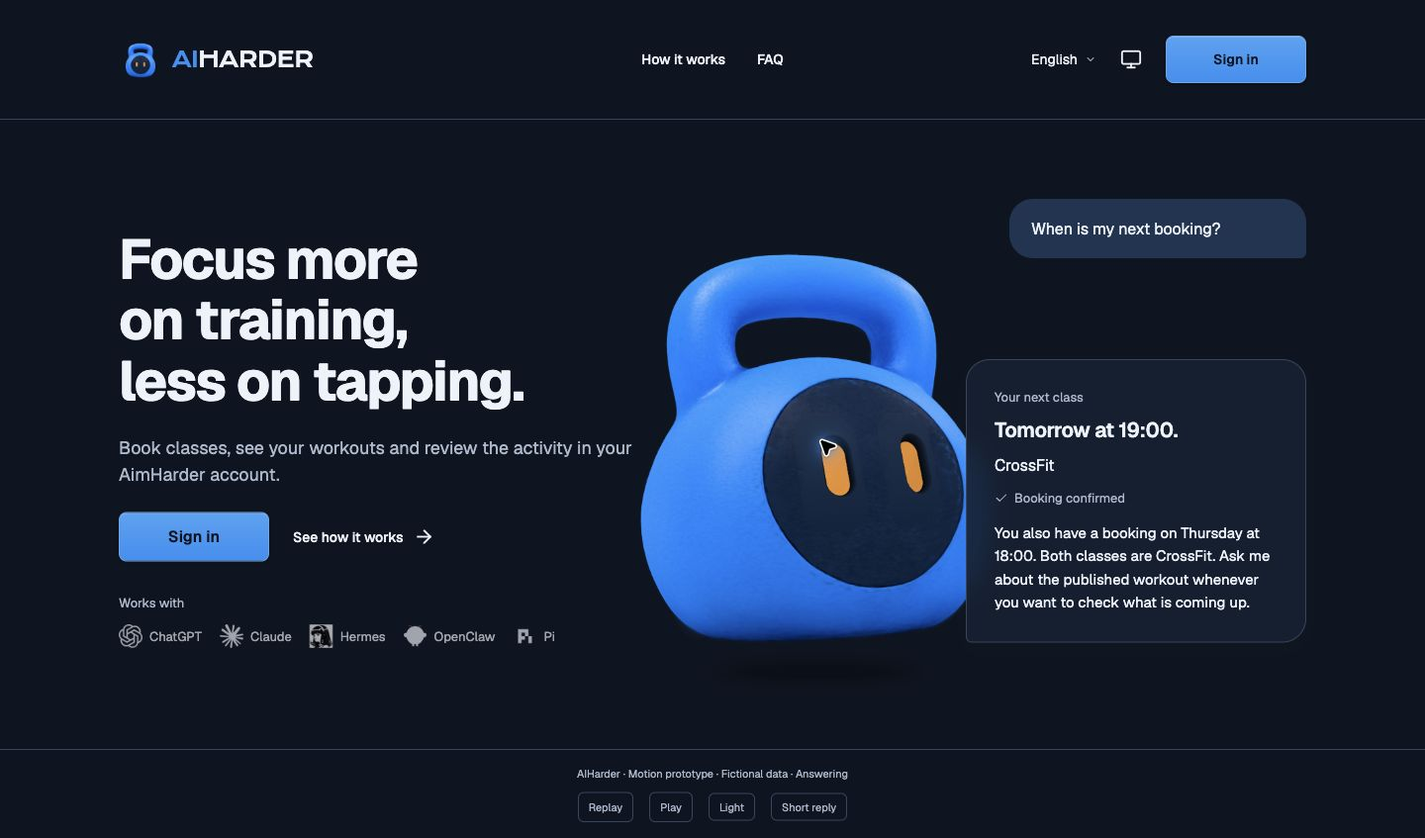
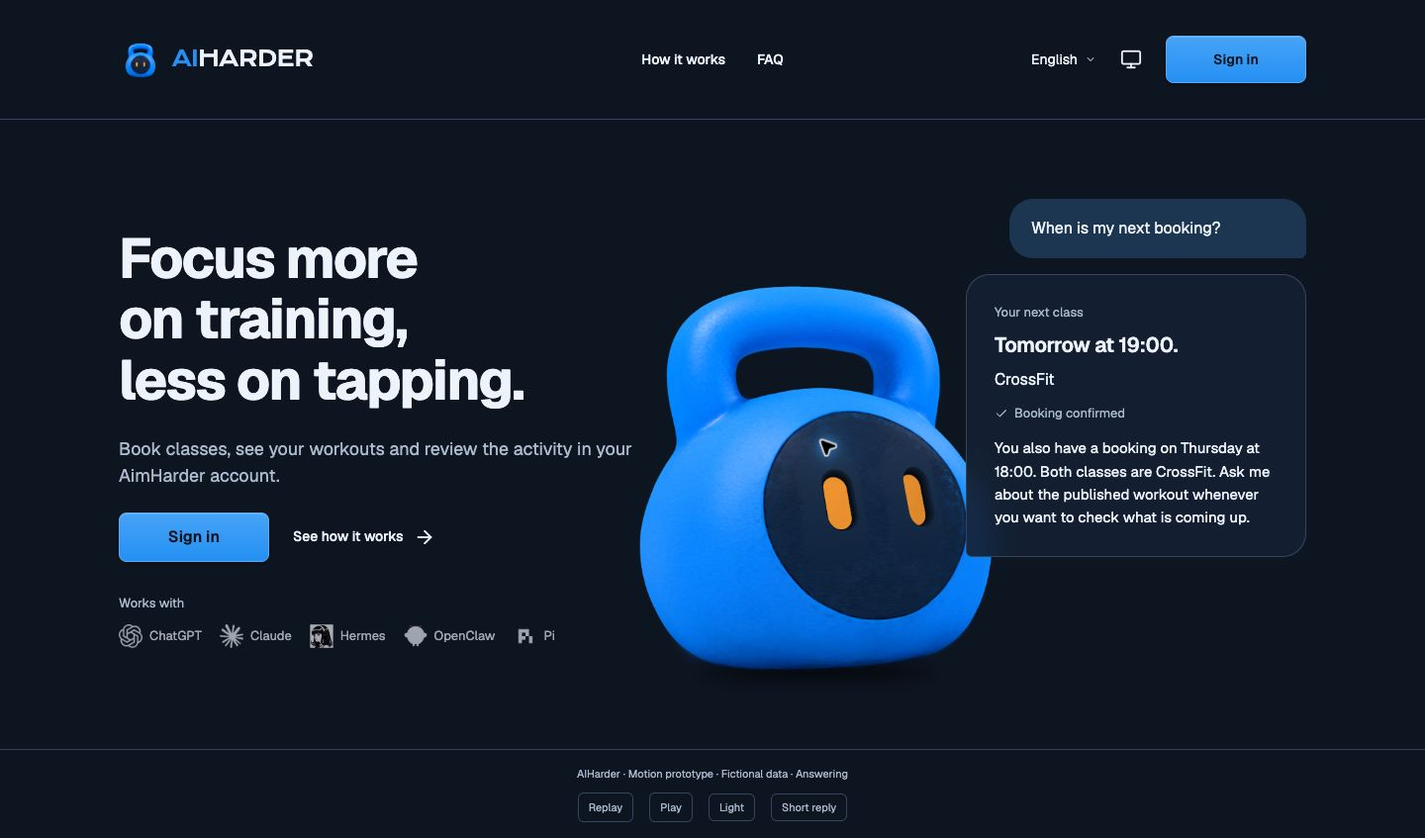
design: speed up kettle reactions and type hero replies

diff --git a/design/home-study/hero-motion-prototype.html b/design/home-study/hero-motion-prototype.html
@@ -2,8 +2,8 @@
 <!-- Throwaway #95 motion prototype: one owner-directed hero, no live chat or account access. -->
 <html lang="en"><head><meta charset="utf-8"><meta name="viewport" content="width=device-width,initial-scale=1"><title>AIHarder — Kettle motion prototype</title><script>const p=new URLSearchParams(location.search);document.documentElement.dataset.theme=p.get('theme')==='dark'?'dark':'light';document.documentElement.dataset.state=['waiting','question','thinking','answer'].includes(p.get('state'))?p.get('state'):'answer';</script><style>
 @font-face{font-family:Geist;src:url('./assets/fonts/Geist.ttf');font-weight:100 900;font-display:swap}@font-face{font-family:Krona;src:url('./assets/fonts/KronaOne-Regular.ttf');font-weight:400;font-display:swap}
-:root{--bg:#fff;--surface:#f4f7fa;--ink:#14283f;--muted:#516174;--line:#cfd8e3;--bubble:#e9f3fe;--blue:#2490f4;--cta:#1765b0;--cta-top:#2174b9;--on-cta:#fff;--edge:#12528f;--shadow:#14283f29;--reply:#f4f7fae6;--ground:#14283f32;--contact:#14283f40;color-scheme:light}:root[data-theme=dark]{--bg:#0d1521;--surface:#142033;--ink:#edf3fa;--muted:#abbacd;--line:#34465e;--bubble:#1c3551;--cta:#2490f4;--cta-top:#47a3f6;--on-cta:#0d1521;--edge:#61a9eb;--shadow:#0000003d;--reply:#142033e6;--ground:#00000080;--contact:#00000099;color-scheme:dark}*{box-sizing:border-box}body{margin:0;background:var(--bg);color:var(--ink);font:16px/1.5 Geist,Arial,sans-serif}a{color:inherit;text-decoration:none}h1,p{margin:0}.container{width:calc(100% - 80px);max-width:1200px;margin:auto}.icon{width:22px;height:22px;display:inline-block;flex:none;background:currentColor;mask:var(--icon) center/contain no-repeat}.site-header{border-bottom:1px solid var(--line)}.header-inner{min-height:120px;display:grid;grid-template-columns:1fr 1fr 1fr;align-items:center}.brand{display:flex;gap:10px;align-items:center;font:400 21.875px/1 Krona,sans-serif;letter-spacing:-.546875px;white-space:nowrap}.brand img{width:43.75px;height:50px;object-fit:contain}.brand b{color:var(--blue);font-weight:400}.nav{display:flex;align-items:center;justify-content:center;gap:32px;font-size:14px;font-weight:500}.utilities{display:flex;align-items:center;justify-content:flex-end;gap:24px;font-size:14px}.language{display:flex;gap:7px;align-items:center}.language .icon{width:12px;height:12px}.primary{display:inline-flex;align-items:center;justify-content:center;min-height:48px;padding:12px 28px;border-radius:8px;border:1px solid var(--edge);font-weight:600;background:linear-gradient(var(--cta-top),var(--cta));color:var(--on-cta);box-shadow:inset 0 1px #ffffff30,0 2px 4px var(--shadow)}.header-signin{min-width:142px}.hero{padding:72px 0 64px;display:grid;grid-template-columns:532px minmax(0,1fr);gap:72px;align-items:center}.pitch{display:flex;flex-direction:column;gap:24px;position:relative;z-index:2}h1{font-size:56px;line-height:1.1;letter-spacing:-1.5px;font-weight:700}.intro{font-size:18px;line-height:1.5;color:var(--muted);max-width:532px}.actions{display:flex;gap:24px;align-items:center}.actions .primary{min-width:152px}.text-link{display:inline-flex;align-items:center;gap:10px;font-size:14px;font-weight:500}.works{padding-top:8px}.works-label{font-size:13px;color:var(--muted);margin-bottom:12px}.apps{display:flex;gap:18px;align-items:center;opacity:.65}.app{display:flex;align-items:center;gap:7px;font-size:13px;white-space:nowrap}.app img{width:24px;height:24px;object-fit:contain}.scene{position:relative;height:500px;min-width:0}.kettle{position:absolute;left:-80px;top:96px;width:360px;height:390px;z-index:1;overflow:hidden}.kettle img{position:absolute;width:493.14px;height:493.14px;max-width:none;left:-77.06px;top:-65.5px}.ground{position:absolute;left:-16px;top:476px;width:236px;height:20px;border-radius:50%;background:var(--ground);filter:blur(8px);z-index:0;transform-origin:center}.ground::after{content:"";position:absolute;left:28px;top:5px;width:180px;height:7px;border-radius:50%;background:var(--contact);filter:blur(2px)}.bubble{position:absolute;font-size:16px;line-height:1.5;z-index:3}.question{right:0;top:8px;width:300px;background:var(--bubble);border-radius:24px 24px 6px 24px;padding:18px 22px}.answer{right:0;top:170px;width:344px;background:var(--reply);backdrop-filter:blur(12px);-webkit-backdrop-filter:blur(12px);border:1px solid var(--line);border-radius:24px 24px 24px 6px;padding:28px;box-shadow:0 6px 24px #14283f09}.answer .eyebrow{font-size:13px;color:var(--muted);margin-bottom:10px}.answer strong{display:block;font-size:21px;line-height:1.25;font-weight:600;letter-spacing:-.35px}.answer .class-name{margin-top:10px;font-size:16px}.answer .confirmed{display:flex;gap:6px;align-items:center;color:var(--muted);font-size:13px;margin-top:12px}.answer .confirmed .icon{width:14px;height:14px}.thinking{right:128px;top:222px;width:90px;height:60px;border:1px solid var(--line);border-radius:22px;background:var(--surface);align-items:center;justify-content:center;gap:7px;display:none}.thinking span{display:block;width:7px;height:7px;background:var(--muted);border-radius:50%}.thinking span:nth-child(2){opacity:.7}.thinking span:nth-child(3){opacity:.4}[data-state=waiting] .question,[data-state=waiting] .answer,[data-state=question] .answer,[data-state=thinking] .answer{display:none}[data-state=thinking] .thinking{display:flex}.sr-only{position:absolute;width:1px;height:1px;overflow:hidden;clip-path:inset(50%)}.review-note{font-size:11px;color:var(--muted);padding:16px;text-align:center;border-top:1px solid var(--line)}
+:root{--bg:#fff;--surface:#f4f7fa;--ink:#14283f;--muted:#516174;--line:#cfd8e3;--bubble:#e9f3fe;--blue:#2490f4;--cta:#1765b0;--cta-top:#2174b9;--on-cta:#fff;--edge:#12528f;--shadow:#14283f29;--reply:#f4f7fae6;--ground:#14283f32;--contact:#14283f40;color-scheme:light}:root[data-theme=dark]{--bg:#0d1521;--surface:#142033;--ink:#edf3fa;--muted:#abbacd;--line:#34465e;--bubble:#1c3551;--cta:#2490f4;--cta-top:#47a3f6;--on-cta:#0d1521;--edge:#61a9eb;--shadow:#0000003d;--reply:#142033e6;--ground:#00000080;--contact:#00000099;color-scheme:dark}*{box-sizing:border-box}body{margin:0;background:var(--bg);color:var(--ink);font:16px/1.5 Geist,Arial,sans-serif}a{color:inherit;text-decoration:none}h1,p{margin:0}.container{width:calc(100% - 80px);max-width:1200px;margin:auto}.icon{width:22px;height:22px;display:inline-block;flex:none;background:currentColor;mask:var(--icon) center/contain no-repeat}.site-header{border-bottom:1px solid var(--line)}.header-inner{min-height:120px;display:grid;grid-template-columns:1fr 1fr 1fr;align-items:center}.brand{display:flex;gap:10px;align-items:center;font:400 21.875px/1 Krona,sans-serif;letter-spacing:-.546875px;white-space:nowrap}.brand img{width:43.75px;height:50px;object-fit:contain}.brand b{color:var(--blue);font-weight:400}.nav{display:flex;align-items:center;justify-content:center;gap:32px;font-size:14px;font-weight:500}.utilities{display:flex;align-items:center;justify-content:flex-end;gap:24px;font-size:14px}.language{display:flex;gap:7px;align-items:center}.language .icon{width:12px;height:12px}.primary{display:inline-flex;align-items:center;justify-content:center;min-height:48px;padding:12px 28px;border-radius:8px;border:1px solid var(--edge);font-weight:600;background:linear-gradient(var(--cta-top),var(--cta));color:var(--on-cta);box-shadow:inset 0 1px #ffffff30,0 2px 4px var(--shadow)}.header-signin{min-width:142px}.hero{padding:72px 0 64px;display:grid;grid-template-columns:532px minmax(0,1fr);gap:72px;align-items:center}.pitch{display:flex;flex-direction:column;gap:24px;position:relative;z-index:2}h1{font-size:56px;line-height:1.1;letter-spacing:-1.5px;font-weight:700}.intro{font-size:18px;line-height:1.5;color:var(--muted);max-width:532px}.actions{display:flex;gap:24px;align-items:center}.actions .primary{min-width:152px}.text-link{display:inline-flex;align-items:center;gap:10px;font-size:14px;font-weight:500}.works{padding-top:8px}.works-label{font-size:13px;color:var(--muted);margin-bottom:12px}.apps{display:flex;gap:18px;align-items:center;opacity:.65}.app{display:flex;align-items:center;gap:7px;font-size:13px;white-space:nowrap}.app img{width:24px;height:24px;object-fit:contain}.scene{position:relative;height:500px;min-width:0}.kettle{position:absolute;left:-80px;top:96px;width:360px;height:390px;z-index:1;overflow:hidden}.kettle img{position:absolute;width:493.14px;height:493.14px;max-width:none;left:-77.06px;top:-65.5px}.ground{position:absolute;left:-16px;top:476px;width:236px;height:20px;border-radius:50%;background:var(--ground);filter:blur(8px);z-index:0;transform-origin:center}.ground::after{content:"";position:absolute;left:28px;top:5px;width:180px;height:7px;border-radius:50%;background:var(--contact);filter:blur(2px)}.bubble{position:absolute;font-size:16px;line-height:1.5;z-index:3}.question{right:0;top:8px;width:300px;background:var(--bubble);border-radius:24px 24px 6px 24px;padding:18px 22px}.answer{right:0;top:var(--reply-top,84px);width:344px;background:var(--reply);backdrop-filter:blur(12px);-webkit-backdrop-filter:blur(12px);border:1px solid var(--line);border-radius:24px 24px 24px 6px;padding:28px;box-shadow:0 6px 24px #14283f09}.answer .eyebrow{font-size:13px;color:var(--muted);margin-bottom:10px}.answer strong{display:block;font-size:21px;line-height:1.25;font-weight:600;letter-spacing:-.35px}.answer .class-name{margin-top:10px;font-size:16px}.answer .confirmed{display:flex;gap:6px;align-items:center;color:var(--muted);font-size:13px;margin-top:12px}.answer .confirmed .icon{width:14px;height:14px}.thinking{right:0;top:var(--reply-top,84px);width:90px;height:60px;border:1px solid var(--line);border-radius:22px;background:var(--surface);align-items:center;justify-content:center;gap:7px;display:none}.thinking span{display:block;width:7px;height:7px;background:var(--muted);border-radius:50%}.thinking span:nth-child(2){opacity:.7}.thinking span:nth-child(3){opacity:.4}[data-state=waiting] .question,[data-state=waiting] .answer,[data-state=question] .answer,[data-state=thinking] .answer{display:none}[data-state=thinking] .thinking{display:flex}.sr-only{position:absolute;width:1px;height:1px;overflow:hidden;clip-path:inset(50%)}.review-note{font-size:11px;color:var(--muted);padding:16px;text-align:center;border-top:1px solid var(--line)}
 @media(max-width:1320px){.kettle{left:-60px;top:126px;width:300px;height:344px}.kettle img{width:435.13px;height:435.13px;left:-68px;top:-57.79px}.answer{width:300px}.ground{left:-8px;top:460px;width:210px}.ground::after{width:154px}}
 @media(max-width:1150px){.hero{grid-template-columns:46% 1fr;gap:40px}h1{font-size:50px}.brand{font-size:20px}.utilities{gap:16px}.nav{gap:24px}.question{width:270px}.answer{width:300px}.kettle{left:-70px}.apps{gap:12px}.app{font-size:12px;gap:5px}}
 @media(max-width:850px){.container{width:calc(100% - 40px)}.header-inner{grid-template-columns:1fr auto;min-height:100px}.nav{display:none}.utilities{gap:16px}.language{display:none}.hero{display:block;padding-top:48px}.pitch{max-width:532px}.scene{height:520px;margin:32px auto 0;max-width:596px}.kettle{left:0}.question{right:0}.answer{right:0}.apps{flex-wrap:wrap}h1{font-size:44px}.header-signin{min-width:100px;padding:12px 18px}.brand{font-size:17px}.brand img{width:35px;height:40px}}
[2 lines of base64/hex data omitted]

diff --git a/design/home-study/hero-graphic-still.html b/design/home-study/hero-graphic-still.html
@@ -2,7 +2,7 @@
 <!-- Static composition study for #95. No animation, real chat, account access or production behavior. -->
 <html lang="en"><head><meta charset="utf-8"><meta name="viewport" content="width=device-width,initial-scale=1"><title>AIHarder — Kettle hero composition</title><script>const p=new URLSearchParams(location.search);document.documentElement.dataset.theme=p.get('theme')==='dark'?'dark':'light';document.documentElement.dataset.state=['waiting','question','thinking','answer'].includes(p.get('state'))?p.get('state'):'answer';</script><style>
 @font-face{font-family:Geist;src:url('./assets/fonts/Geist.ttf');font-weight:100 900;font-display:swap}@font-face{font-family:Krona;src:url('./assets/fonts/KronaOne-Regular.ttf');font-weight:400;font-display:swap}
-:root{--bg:#fff;--surface:#f4f7fa;--ink:#14283f;--muted:#516174;--line:#cfd8e3;--bubble:#e9f3fe;--blue:#2490f4;--cta:#1765b0;--cta-top:#2174b9;--on-cta:#fff;--edge:#12528f;--shadow:#14283f29;--reply:#f4f7fae6;--ground:#14283f32;--contact:#14283f40;color-scheme:light}:root[data-theme=dark]{--bg:#0d1521;--surface:#142033;--ink:#edf3fa;--muted:#abbacd;--line:#34465e;--bubble:#1c3551;--cta:#2490f4;--cta-top:#47a3f6;--on-cta:#0d1521;--edge:#61a9eb;--shadow:#0000003d;--reply:#142033e6;--ground:#00000080;--contact:#00000099;color-scheme:dark}*{box-sizing:border-box}body{margin:0;background:var(--bg);color:var(--ink);font:16px/1.5 Geist,Arial,sans-serif}a{color:inherit;text-decoration:none}h1,p{margin:0}.container{width:calc(100% - 80px);max-width:1200px;margin:auto}.icon{width:22px;height:22px;display:inline-block;flex:none;background:currentColor;mask:var(--icon) center/contain no-repeat}.site-header{border-bottom:1px solid var(--line)}.header-inner{min-height:120px;display:grid;grid-template-columns:1fr 1fr 1fr;align-items:center}.brand{display:flex;gap:10px;align-items:center;font:400 21.875px/1 Krona,sans-serif;letter-spacing:-.546875px;white-space:nowrap}.brand img{width:43.75px;height:50px;object-fit:contain}.brand b{color:var(--blue);font-weight:400}.nav{display:flex;align-items:center;justify-content:center;gap:32px;font-size:14px;font-weight:500}.utilities{display:flex;align-items:center;justify-content:flex-end;gap:24px;font-size:14px}.language{display:flex;gap:7px;align-items:center}.language .icon{width:12px;height:12px}.primary{display:inline-flex;align-items:center;justify-content:center;min-height:48px;padding:12px 28px;border-radius:8px;border:1px solid var(--edge);font-weight:600;background:linear-gradient(var(--cta-top),var(--cta));color:var(--on-cta);box-shadow:inset 0 1px #ffffff30,0 2px 4px var(--shadow)}.header-signin{min-width:142px}.hero{padding:72px 0 64px;display:grid;grid-template-columns:532px minmax(0,1fr);gap:72px;align-items:center}.pitch{display:flex;flex-direction:column;gap:24px;position:relative;z-index:2}h1{font-size:56px;line-height:1.1;letter-spacing:-1.5px;font-weight:700}.intro{font-size:18px;line-height:1.5;color:var(--muted);max-width:532px}.actions{display:flex;gap:24px;align-items:center}.actions .primary{min-width:152px}.text-link{display:inline-flex;align-items:center;gap:10px;font-size:14px;font-weight:500}.works{padding-top:8px}.works-label{font-size:13px;color:var(--muted);margin-bottom:12px}.apps{display:flex;gap:18px;align-items:center;opacity:.65}.app{display:flex;align-items:center;gap:7px;font-size:13px;white-space:nowrap}.app img{width:24px;height:24px;object-fit:contain}.scene{position:relative;height:500px;min-width:0}.kettle{position:absolute;left:-80px;top:96px;width:360px;height:390px;z-index:1;overflow:hidden}.kettle img{position:absolute;width:493.14px;height:493.14px;max-width:none;left:-77.06px;top:-65.5px}.ground{position:absolute;left:-16px;top:476px;width:236px;height:20px;border-radius:50%;background:var(--ground);filter:blur(8px);z-index:0;transform-origin:center}.ground::after{content:"";position:absolute;left:28px;top:5px;width:180px;height:7px;border-radius:50%;background:var(--contact);filter:blur(2px)}.bubble{position:absolute;font-size:16px;line-height:1.5;z-index:3}.question{right:0;top:8px;width:300px;background:var(--bubble);border-radius:24px 24px 6px 24px;padding:18px 22px}.answer{right:0;top:170px;width:344px;background:var(--reply);backdrop-filter:blur(12px);-webkit-backdrop-filter:blur(12px);border:1px solid var(--line);border-radius:24px 24px 24px 6px;padding:28px;box-shadow:0 6px 24px #14283f09}.answer .eyebrow{font-size:13px;color:var(--muted);margin-bottom:10px}.answer strong{display:block;font-size:21px;line-height:1.25;font-weight:600;letter-spacing:-.35px}.answer .class-name{margin-top:10px;font-size:16px}.answer .confirmed{display:flex;gap:6px;align-items:center;color:var(--muted);font-size:13px;margin-top:12px}.answer .confirmed .icon{width:14px;height:14px}.thinking{right:128px;top:222px;width:90px;height:60px;border:1px solid var(--line);border-radius:22px;background:var(--surface);align-items:center;justify-content:center;gap:7px;display:none}.thinking span{display:block;width:7px;height:7px;background:var(--muted);border-radius:50%}.thinking span:nth-child(2){opacity:.7}.thinking span:nth-child(3){opacity:.4}[data-state=waiting] .question,[data-state=waiting] .answer,[data-state=question] .answer,[data-state=thinking] .answer{display:none}[data-state=thinking] .thinking{display:flex}.sr-only{position:absolute;width:1px;height:1px;overflow:hidden;clip-path:inset(50%)}.review-note{font-size:11px;color:var(--muted);padding:16px;text-align:center;border-top:1px solid var(--line)}
+:root{--bg:#fff;--surface:#f4f7fa;--ink:#14283f;--muted:#516174;--line:#cfd8e3;--bubble:#e9f3fe;--blue:#2490f4;--cta:#1765b0;--cta-top:#2174b9;--on-cta:#fff;--edge:#12528f;--shadow:#14283f29;--reply:#f4f7fae6;--ground:#14283f32;--contact:#14283f40;color-scheme:light}:root[data-theme=dark]{--bg:#0d1521;--surface:#142033;--ink:#edf3fa;--muted:#abbacd;--line:#34465e;--bubble:#1c3551;--cta:#2490f4;--cta-top:#47a3f6;--on-cta:#0d1521;--edge:#61a9eb;--shadow:#0000003d;--reply:#142033e6;--ground:#00000080;--contact:#00000099;color-scheme:dark}*{box-sizing:border-box}body{margin:0;background:var(--bg);color:var(--ink);font:16px/1.5 Geist,Arial,sans-serif}a{color:inherit;text-decoration:none}h1,p{margin:0}.container{width:calc(100% - 80px);max-width:1200px;margin:auto}.icon{width:22px;height:22px;display:inline-block;flex:none;background:currentColor;mask:var(--icon) center/contain no-repeat}.site-header{border-bottom:1px solid var(--line)}.header-inner{min-height:120px;display:grid;grid-template-columns:1fr 1fr 1fr;align-items:center}.brand{display:flex;gap:10px;align-items:center;font:400 21.875px/1 Krona,sans-serif;letter-spacing:-.546875px;white-space:nowrap}.brand img{width:43.75px;height:50px;object-fit:contain}.brand b{color:var(--blue);font-weight:400}.nav{display:flex;align-items:center;justify-content:center;gap:32px;font-size:14px;font-weight:500}.utilities{display:flex;align-items:center;justify-content:flex-end;gap:24px;font-size:14px}.language{display:flex;gap:7px;align-items:center}.language .icon{width:12px;height:12px}.primary{display:inline-flex;align-items:center;justify-content:center;min-height:48px;padding:12px 28px;border-radius:8px;border:1px solid var(--edge);font-weight:600;background:linear-gradient(var(--cta-top),var(--cta));color:var(--on-cta);box-shadow:inset 0 1px #ffffff30,0 2px 4px var(--shadow)}.header-signin{min-width:142px}.hero{padding:72px 0 64px;display:grid;grid-template-columns:532px minmax(0,1fr);gap:72px;align-items:center}.pitch{display:flex;flex-direction:column;gap:24px;position:relative;z-index:2}h1{font-size:56px;line-height:1.1;letter-spacing:-1.5px;font-weight:700}.intro{font-size:18px;line-height:1.5;color:var(--muted);max-width:532px}.actions{display:flex;gap:24px;align-items:center}.actions .primary{min-width:152px}.text-link{display:inline-flex;align-items:center;gap:10px;font-size:14px;font-weight:500}.works{padding-top:8px}.works-label{font-size:13px;color:var(--muted);margin-bottom:12px}.apps{display:flex;gap:18px;align-items:center;opacity:.65}.app{display:flex;align-items:center;gap:7px;font-size:13px;white-space:nowrap}.app img{width:24px;height:24px;object-fit:contain}.scene{position:relative;height:500px;min-width:0}.kettle{position:absolute;left:-80px;top:96px;width:360px;height:390px;z-index:1;overflow:hidden}.kettle img{position:absolute;width:493.14px;height:493.14px;max-width:none;left:-77.06px;top:-65.5px}.ground{position:absolute;left:-16px;top:476px;width:236px;height:20px;border-radius:50%;background:var(--ground);filter:blur(8px);z-index:0;transform-origin:center}.ground::after{content:"";position:absolute;left:28px;top:5px;width:180px;height:7px;border-radius:50%;background:var(--contact);filter:blur(2px)}.bubble{position:absolute;font-size:16px;line-height:1.5;z-index:3}.question{right:0;top:8px;width:300px;background:var(--bubble);border-radius:24px 24px 6px 24px;padding:18px 22px}.answer{right:0;top:var(--reply-top,84px);width:344px;background:var(--reply);backdrop-filter:blur(12px);-webkit-backdrop-filter:blur(12px);border:1px solid var(--line);border-radius:24px 24px 24px 6px;padding:28px;box-shadow:0 6px 24px #14283f09}.answer .eyebrow{font-size:13px;color:var(--muted);margin-bottom:10px}.answer strong{display:block;font-size:21px;line-height:1.25;font-weight:600;letter-spacing:-.35px}.answer .class-name{margin-top:10px;font-size:16px}.answer .confirmed{display:flex;gap:6px;align-items:center;color:var(--muted);font-size:13px;margin-top:12px}.answer .confirmed .icon{width:14px;height:14px}.thinking{right:0;top:var(--reply-top,84px);width:90px;height:60px;border:1px solid var(--line);border-radius:22px;background:var(--surface);align-items:center;justify-content:center;gap:7px;display:none}.thinking span{display:block;width:7px;height:7px;background:var(--muted);border-radius:50%}.thinking span:nth-child(2){opacity:.7}.thinking span:nth-child(3){opacity:.4}[data-state=waiting] .question,[data-state=waiting] .answer,[data-state=question] .answer,[data-state=thinking] .answer{display:none}[data-state=thinking] .thinking{display:flex}.sr-only{position:absolute;width:1px;height:1px;overflow:hidden;clip-path:inset(50%)}.review-note{font-size:11px;color:var(--muted);padding:16px;text-align:center;border-top:1px solid var(--line)}
 @media(max-width:1320px){.kettle{left:-60px;top:126px;width:300px;height:344px}.kettle img{width:435.13px;height:435.13px;left:-68px;top:-57.79px}.answer{width:300px}.ground{left:-8px;top:460px;width:210px}.ground::after{width:154px}}
 @media(max-width:1150px){.hero{grid-template-columns:46% 1fr;gap:40px}h1{font-size:50px}.brand{font-size:20px}.utilities{gap:16px}.nav{gap:24px}.question{width:270px}.answer{width:300px}.kettle{left:-70px}.apps{gap:12px}.app{font-size:12px;gap:5px}}
 @media(max-width:850px){.container{width:calc(100% - 40px)}.header-inner{grid-template-columns:1fr auto;min-height:100px}.nav{display:none}.utilities{gap:16px}.language{display:none}.hero{display:block;padding-top:48px}.pitch{max-width:532px}.scene{height:520px;margin:32px auto 0;max-width:596px}.kettle{left:0}.question{right:0}.answer{right:0}.apps{flex-wrap:wrap}h1{font-size:44px}.header-signin{min-width:100px;padding:12px 18px}.brand{font-size:17px}.brand img{width:35px;height:40px}}

diff --git a/design/home-study/hero-motion-prototype.js b/design/home-study/hero-motion-prototype.js
@@ -14,6 +14,7 @@ const pause = document.querySelector('#pause');
 const replay = document.querySelector('#replay');
 const reduced = matchMedia('(prefers-reduced-motion: reduce)');
 const frozen = params.get('motion') === 'off' || reduced.matches;
+const timing = {question: .9, thinking: 1.12, answer: 2.195, cycle: 8.5};
 const inspection = Number(params.get('at'));
 const inspectAt = params.has('at') && Number.isFinite(inspection) ? Math.max(0, Math.min(8.49, inspection)) : null;
 stage.dataset.inspection = String(inspectAt !== null || frozen);
@@ -50,9 +51,60 @@ if (params.get('reply') === 'long') {
   copy.textContent = 'You also have a booking on Thursday at 18:00. Both classes are CrossFit. Ask me about the published workout whenever you want to check what is coming up.';
   document.querySelector('.answer').append(copy);
 }
+// Retain the complete text footprint so typing never resizes the bubble.
+const answer = document.querySelector('.answer');
+const fullAnswer = Array.from(answer.querySelectorAll('p, strong'), node => node.textContent.trim().replace(/[.!?]$/, '')).join('. ');
+const textWalker = document.createTreeWalker(answer, NodeFilter.SHOW_TEXT);
+const textNodes = [];
+while (textWalker.nextNode()) {
+  if (textWalker.currentNode.textContent.trim()) textNodes.push(textWalker.currentNode);
+}
+let totalCharacters = 0;
+const runs = textNodes.map(node => {
+  const text = Array.from(node.textContent);
+  const wrapper = document.createElement('span');
+  const visible = document.createElement('span');
+  visible.className = 'reply-visible';
+  const remainder = document.createElement('span');
+  remainder.className = 'reply-unrevealed';
+  wrapper.append(visible, remainder);
+  node.replaceWith(wrapper);
+  const start = totalCharacters;
+  totalCharacters += text.length;
+  return {text, start, visible, remainder};
+});
+// Expose one complete answer instead of announcing each character to assistive technology.
+answer.setAttribute('role', 'img');
+answer.setAttribute('aria-label', 'Fictional answer: ' + fullAnswer);
+const typingDuration = Math.max(.7, Math.min(2.2, totalCharacters / 105));
+let lastCount = -1;
+function typeAnswer(time, complete = false) {
+  const count = complete ? totalCharacters : Math.floor(Math.max(0, Math.min(1, (time-timing.answer)/typingDuration))*totalCharacters);
+  if (count === lastCount) return;
+  lastCount = count;
+  for (const run of runs) {
+    const n = Math.max(0, Math.min(run.text.length, count-run.start));
+    run.visible.textContent = run.text.slice(0, n).join('');
+    run.remainder.textContent = run.text.slice(n).join('');
+    run.visible.classList.toggle('typing-caret', n > 0 && n < run.text.length);
+  }
+  stage.dataset.typed = String(count);
+  stage.dataset.characters = String(totalCharacters);
+  stage.dataset.typing = String(count < totalCharacters);
+  const confirmed = runs.find(run => run.visible.closest('.confirmed'));
+  answer.querySelector('.confirmed .icon').style.visibility = confirmed && count <= confirmed.start ? 'hidden' : 'visible';
+}
+const question = document.querySelector('.question');
+function placeReply() {
+  // The question can wrap; keep both reply states exactly 16px below its real bottom.
+  if (question.offsetHeight) stage.style.setProperty('--reply-top', (question.offsetTop+question.offsetHeight+16)+'px');
+}
+new ResizeObserver(placeReply).observe(question);
+typeAnswer(0, frozen);
 function phase(name) {
   root.dataset.state = name;
   stage.dataset.phase = name;
+  placeReply();
 }
 function controls() {
   pause.textContent = playing ? 'Pause' : 'Play';
@@ -87,6 +139,7 @@ if (frozen) {
   start().catch(() => {
     stage.dataset.inspection = 'true';
     phase('answer');
+    typeAnswer(0, true);
     status.textContent = 'Static fallback · 3D unavailable';
     pause.disabled = replay.disabled = true;
   });
@@ -144,13 +197,14 @@ async function start() {
     }
   });
   const smooth = n => {n = Math.max(0, Math.min(1, n)); return n * n * (3 - 2 * n);};
-  // Scale-Y, lift, roll: slow compression; release; flight; landing; smaller rebound; settle.
+  // Anticipation compresses in half the previous thinking time; quick release follows.
+  const a = timing.answer;
   const keys = [
-    [0, 1, 0, 0], [1.65, 1, 0, 0], [3.8, .85, 0, -.012],
-    [3.91, 1.055, .014, .005], [4.08, 1.025, .065, .015],
-    [4.29, 1, .008, .004], [4.34, .92, 0, -.014],
-    [4.46, 1.025, .022, .009], [4.59, .975, 0, -.004],
-    [4.82, 1, 0, 0], [8.5, 1, 0, 0],
+    [0, 1, 0, 0], [timing.thinking, 1, 0, 0], [a, .85, 0, -.012],
+    [a+.11, 1.055, .014, .005], [a+.28, 1.025, .065, .015],
+    [a+.49, 1, .008, .004], [a+.54, .92, 0, -.014],
+    [a+.66, 1.025, .022, .009], [a+.79, .975, 0, -.004],
+    [a+1.02, 1, 0, 0], [timing.cycle, 1, 0, 0],
   ];
   function sample(t) {
     for (let i = 1; i < keys.length; i++) {
@@ -162,26 +216,41 @@ async function start() {
     return [1, 0, 0];
   }
   drawFrame = now => {
-    if (playing && previous !== null) elapsed = (elapsed + Math.min(.05, (now-previous)/1000)) % 8.5;
+    if (playing && previous !== null) elapsed = (elapsed + Math.min(.05, (now-previous)/1000)) % timing.cycle;
     previous = now;
     const t = elapsed;
-    const name = t < .9 ? 'waiting' : t < 1.65 ? 'question' : t < 3.8 ? 'thinking' : 'answer';
+    const name = t < timing.question ? 'waiting' : t < timing.thinking ? 'question' : t < timing.answer ? 'thinking' : 'answer';
     if (stage.dataset.phase !== name) phase(name);
-    const [sy, lift, roll] = sample(t);
+    typeAnswer(t);
+    let [sy, lift, roll] = sample(t);
+    // Longer answers extend the hop into a small side-to-side dance, then ease to rest.
+    const danceStart = timing.answer+.8;
+    const danceLength = typingDuration-.65;
+    const danceProgress = Math.max(0, Math.min(1, (t-danceStart)/danceLength));
+    const envelope = typingDuration > 1 ? Math.sin(Math.PI*danceProgress) : 0;
+    const beat = Math.sin((t-danceStart)*Math.PI*5);
+    const sway = .025*beat*envelope;
+    roll += .045*beat*envelope;
+    lift += .018*Math.abs(beat)*envelope;
+    sy -= .025*(1-Math.abs(beat))*envelope;
     planted.scale.set(1 / Math.sqrt(sy), sy, 1 / Math.sqrt(sy));
     planted.position.y = .018 + lift;
-    const attention = smooth((t-.9)/.6);
-    body.rotation.set(0, .16 + .22*attention, .11*attention + roll);
-    const thinking = smooth((t-1.65)/.55) * (1-smooth((t-3.8)/.2));
+    planted.position.z = sway;
+    // Fast ease-out reaction on question arrival, with a small overshoot and settle.
+    const reaction = Math.max(0, Math.min(1, (t-timing.question)/.18));
+    const attention = 1-Math.pow(1-reaction,3)+.10*Math.sin(Math.PI*reaction);
+    body.rotation.set(0, .16 + .22*attention + sway, .11*attention + roll);
+    const thinking = smooth((t-timing.thinking)/.22) * (1-smooth((t-timing.answer)/.14));
     // A brief blink and gentle squint move all recessed layers with the curved face.
-    const blink = t > 2.45 && t < 2.63 ? Math.sin((t-2.45)/.18*Math.PI) : 0;
+    const blink = t > 1.58 && t < 1.76 ? Math.sin((t-1.58)/.18*Math.PI) : 0;
     eyes.apply({open: [1-.10*thinking-.80*blink, 1-.18*thinking-.72*blink], width: 1-.025*thinking, gaze: -.018*attention, gazeY: .014*attention+.008*thinking});
-    shadow.style.transform = `scale(${1 + (1-sy)*.35-lift*1.5})`;
+    shadow.style.transform = `translateX(${-sway*390}px) scale(${1 + (1-sy)*.35-lift*1.5})`;
     shadow.style.opacity = String(1-lift*6);
     // Visible, read-only inspection evidence; no private renderer state needed by QA.
     stage.dataset.scaleY = sy.toFixed(4);
     stage.dataset.lift = lift.toFixed(4);
     stage.dataset.time = t.toFixed(3);
+    stage.dataset.attention = attention.toFixed(4);
     status.textContent = name === 'answer' ? 'Answering' : name[0].toUpperCase()+name.slice(1);
     renderer.render(scene, camera);
     if (playing && !document.hidden) requestFrame();

diff --git a/design/home-study/graphic-hero-study.md b/design/home-study/graphic-hero-study.md
@@ -38,9 +38,9 @@ The English Light/Dark pen heroes now use this composition and the agreed headli
 
 No real account query, new API behavior, production animation or architecture/security change is involved. Existing ADRs remain applicable. Pose and expression approval remains with the owner.
 
-## Thinking compression, reply bounce and translucent bubble — 2026-10-31
+## Previous timing: thinking compression and reply bounce — 2026-10-31
 
-The owner asked for slow compression while thinking, a small hop with rebound timed to the answer, a larger reply with a tighter lower-left corner, translucency/blur over the character and a stronger ground shadow, especially in Light. This is one directed refinement, not additional layout variants.
+The timings in this section describe the previous trial, superseded by the faster sequence below. The owner asked for slow compression while thinking, a small hop with rebound timed to the answer, a larger reply with a tighter lower-left corner, translucency/blur over the character and a stronger ground shadow, especially in Light. This is one directed refinement, not additional layout variants.
 
 | Decision | Source | Applied behavior |
 | --- | --- | --- |
@@ -58,3 +58,20 @@ Browser checks covered 1440px Light, 1440px Dark with the longer reply, and a 12
 **Pen sync remains pending for this refinement.** The editor opened but did not answer three execute calls. The pre-existing local pen change (4px background blur on the Light reply) was preserved; no direct pen-file edits were made. The six frozen variants, production app and API/security/distribution decisions are unchanged. Existing ADRs remain applicable; no new ADR is required for this visual prototype.
 
 Review found and fixed a duplicate animation-frame scheduling risk on tab visibility return or rapid Pause/Play. One tracked pending frame is now cancelled on hide/pause and scheduled idempotently on resume. Browser pause/resume was rechecked after the fix with no observed console warnings/errors. Standards and Spec review cover this directed prototype, not production readiness.
+
+## Faster reaction, compact message stack and typed replies — 2026-10-31
+
+The owner liked the direction and asked for a faster reaction when the question arrives, half the thinking time, the reply directly below the question, right-aligned thinking dots, rapid typewriter text and an emote during writing. These instructions refine the same desktop English Light/Dark hero; they do not request new screen variants.
+
+- The question arrives at 0.9s. The body/gaze reacts over 180ms with a fast ease-out, slight overshoot and settle, instead of the former 600ms turn. The thinking state starts at 1.12s.
+- Thinking/compression lasts **1.075s**, exactly half the former 2.15s. The response starts at 2.195s, with the existing anticipation, stretch, airborne arc, compressed landing and smaller follow-through rebound shifted to match.
+- Both reply states sit **16px below the measured bottom of the question**, with identical right alignment. A ResizeObserver accommodates wrapping. The static composition uses the same 84px default top position. The 344px translucent surface and asymmetric lower-left corner are retained.
+- Text reveals at approximately **105 characters/second** (minimum 0.7s, maximum 2.2s). The short answer takes 0.7s; the 211-character long example takes about 2.01s. Hidden text retains its footprint so the bubble does not resize or rewrap as characters appear. A single complete accessible answer replaces per-character announcements.
+- The initial hop accompanies the short answer. While a longer answer continues typing, the kettle extends the gesture into small side-to-side bounces with a restrained roll/yaw, volume-preserving squash, moving contact shadow and an eased settle. Body, handle and complete eye relief remain on the same rig.
+- Typing uses the same elapsed clock as the character. Pause freezes both; Replay resets both. The single-frame scheduler remains intact. Reduced motion and 3D fallback show the complete answer immediately.
+
+Browser inspection verified the 180ms reaction, 16px gaps/zero right-edge offset for both thinking and reply states, partial/full text, stable 286.25px long-reply height, the dance during writing, pause/resume, and the complete no-canvas fallback at 1200px. Light/Dark captures at 1440px are in [checks](hero-motion-checks.json), including [partial typing](previews/hero-motion-typing-light.png). No console warnings/errors were observed. Actual OS preference changes, real-device performance and owner acceptance remain separate.
+
+The native pen and its exports were already modified at the start of this revision: the previous larger translucent reply and stronger shadow had eventually persisted, despite the earlier tool timeout. They were preserved. The new attempt to move the native reply to y=84 also timed out; the latest file inspection still shows y=170 in both active homes. The current compact stack and all timing/typewriter/emote changes are therefore verified in HTML; latest pen alignment remains pending. No direct pen-file edits were made. No API, production configuration, dependencies or architecture/security/distribution decisions changed; no ADR update is required.
+
+The final Standards and Spec reviews found no actionable issues. A later browser read confirmed paused time/text remained at 3.602s and 147 characters. JavaScript syntax, capture hashes and documentation links were checked; no production runtime test suite was run for this isolated visual prototype.

diff --git a/design/home-study/README.md b/design/home-study/README.md
@@ -1,6 +1,6 @@
 # AIHarder — public home study
 
-Additional graphic experiment: the [kettle-led hero study](graphic-hero-study.md) uses the agreed “Focus more on training, less on tapping” headline and an [animated 3D prototype](hero-motion-prototype.html). The current HTML trial adds slow thinking compression, a reply-synchronized hop/rebound, a larger translucent reply and a grounded shadow. The pen retains the previous attentive-pose composition because the editor did not answer this revision; the six other home variants and older HTML prototype remain at their previous checkpoint.
+Additional graphic experiment: the [kettle-led hero study](graphic-hero-study.md) uses the agreed “Focus more on training, less on tapping” headline and an [animated 3D prototype](hero-motion-prototype.html). The current HTML trial uses a faster reaction, half-length thinking, right-aligned compact bubbles, rapid typed replies and a small hop/dance during writing. The pen contains the previous larger translucent reply and stronger shadow; the latest compact stack is still pending there because the editor did not answer; the six other home variants and older HTML prototype remain at their previous checkpoint.
 
 **Active refinement:** the working name is now **AIHarder**. Only the English desktop Light/Dark frames are being refined; Spanish/mobile variants and the HTML prototype remain at the previous checkpoint until agreement. The [desktop refinement](desktop-refinement.md) is the current review target. Button A is selected; the latest candidate uses a 25% larger logo, a bold headline and attenuated Works with logos. This later scope supersedes the earlier all-variant iteration below.
 
